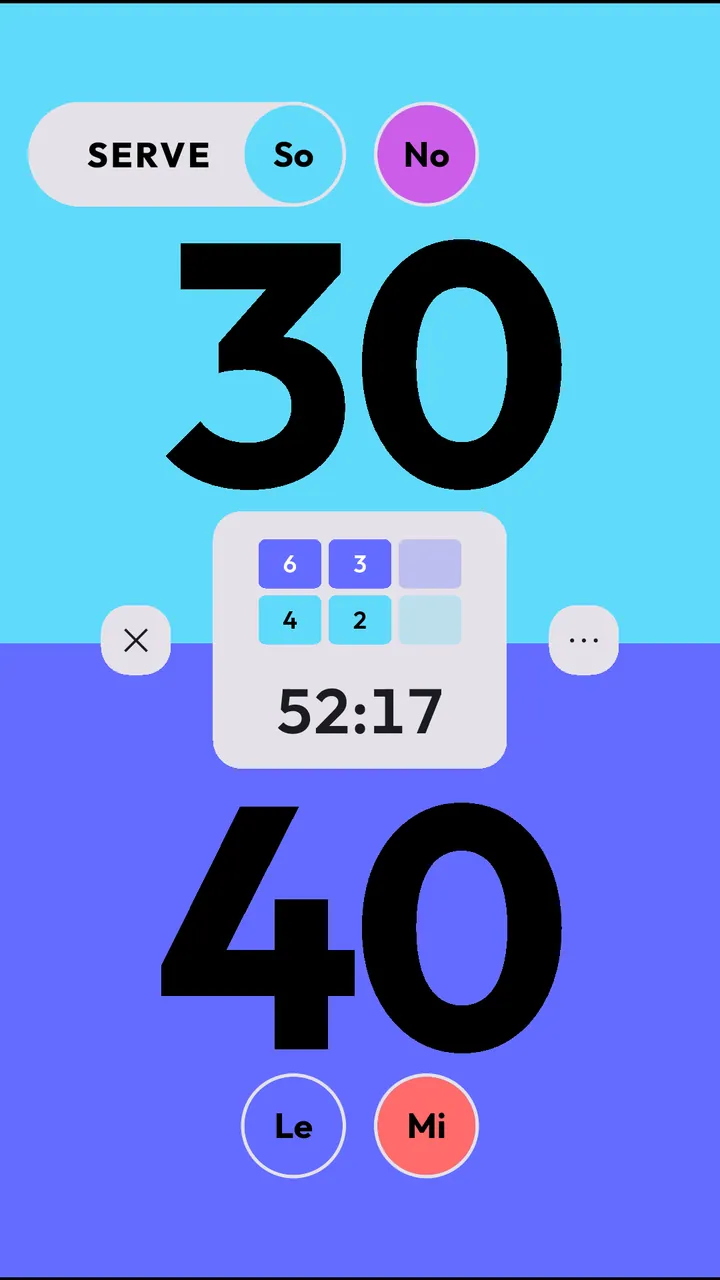
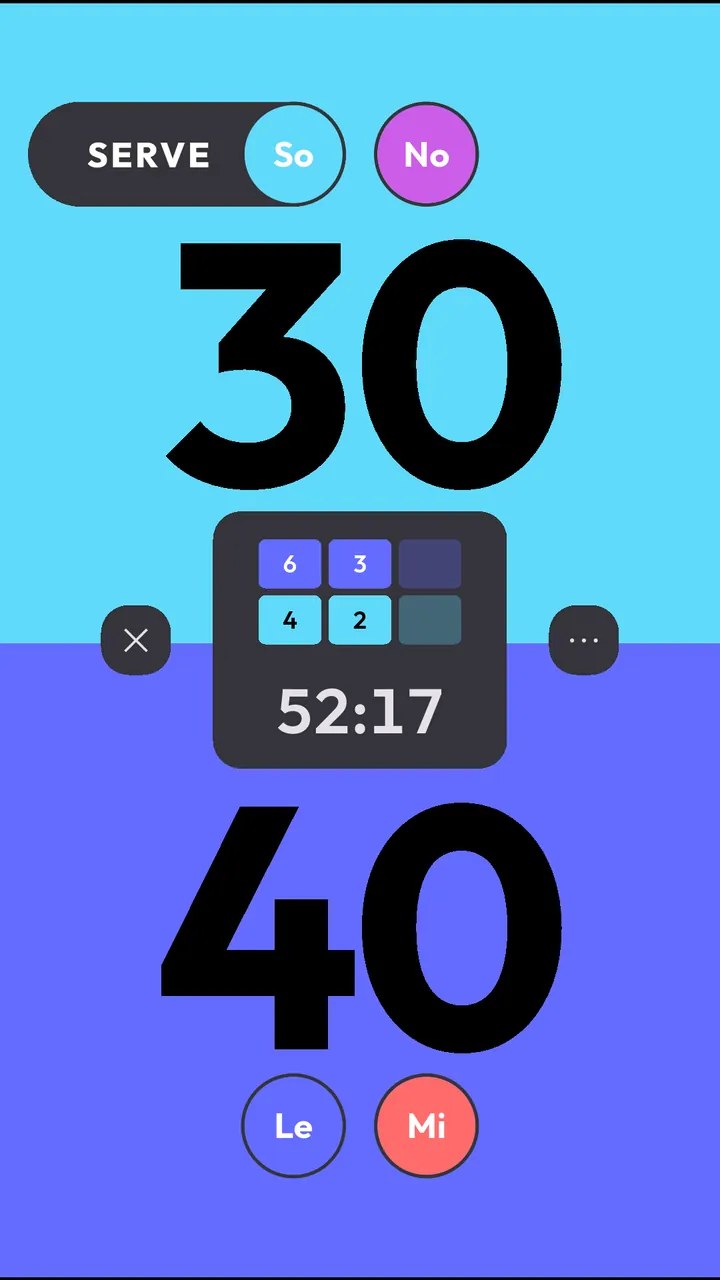
fix(app): make the step card readable over the screenshot
The active step card was tinted at ten percent opacity, which is fine
for the mode tabs on the page background but not for a card floating
over a phone: the screenshot underneath bled through and neither layer
could be read.

The card now has an opaque dark base with the accent kept as its border
and a faint ring, and a stronger backdrop blur. The mode tabs keep the
light tint they had.

The screenshots inside the phone switch to the dark capture set as
well. They sit on a dark page under a translucent card, and the light
set was fighting both.

Claude-Session: https://claude.ai/code/session_01DSQes332AvYSwypbHAUaki

diff --git a/src/components/GameModes.tsx b/src/components/GameModes.tsx
@@ -15,25 +15,34 @@ const modeIcons: Record<ModeKey, typeof Hand> = {
 
 const modeColors: Record<
   ModeKey,
-  { active: string; glow: string; accent: string }
+  { active: string; card: string; glow: string; accent: string }
 > = {
+  // `active` tints the mode tabs, which sit on the page background and
+  // can afford to be barely there. `card` is for the step card, which
+  // floats over a screenshot: it needs an opaque base or the text
+  // underneath bleeds through and neither layer can be read. The accent
+  // survives as the border and a faint wash.
   swipe: {
     active: 'border-cyan-500/40 bg-cyan-500/10 text-cyan-400',
+    card: 'border-cyan-500/50 bg-zinc-950/90 ring-1 ring-cyan-500/20',
     glow: 'from-cyan-500/10 to-blue-500/10',
     accent: 'bg-cyan-500',
   },
   oneBeacon: {
     active: 'border-blue-500/40 bg-blue-500/10 text-blue-400',
+    card: 'border-blue-500/50 bg-zinc-950/90 ring-1 ring-blue-500/20',
     glow: 'from-blue-500/10 to-indigo-500/10',
     accent: 'bg-blue-500',
   },
   twoBeacons: {
     active: 'border-emerald-500/40 bg-emerald-500/10 text-emerald-400',
+    card: 'border-emerald-500/50 bg-zinc-950/90 ring-1 ring-emerald-500/20',
     glow: 'from-emerald-500/10 to-cyan-500/10',
     accent: 'bg-emerald-500',
   },
   tournament: {
     active: 'border-yellow-500/40 bg-yellow-500/10 text-yellow-400',
+    card: 'border-yellow-500/50 bg-zinc-950/90 ring-1 ring-yellow-500/20',
     glow: 'from-yellow-500/10 to-orange-500/10',
     accent: 'bg-yellow-500',
   },
@@ -211,10 +220,10 @@ export function GameModes({ lang = 'de' }: { lang?: Locale }) {
                 className="min-h-[60vh] flex items-center justify-center px-4"
               >
                 <div
-                  className={`max-w-md w-full p-6 md:p-8 rounded-2xl border backdrop-blur-md transition-all duration-500 ${
+                  className={`max-w-md w-full p-6 md:p-8 rounded-2xl border backdrop-blur-xl transition-all duration-500 ${
                     i === activeStep
-                      ? `${colors.active} shadow-lg`
-                      : 'border-zinc-800/50 bg-zinc-950/60'
+                      ? `${colors.card} shadow-2xl shadow-black/60`
+                      : 'border-zinc-800/50 bg-zinc-950/80'
                   }`}
                 >
                   <div className="flex items-start gap-4">
